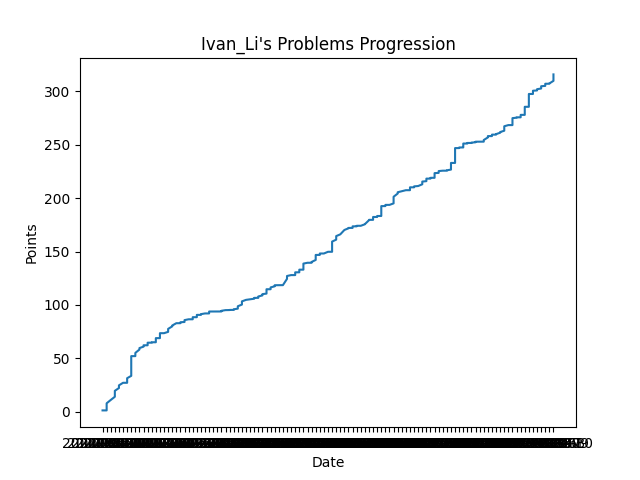
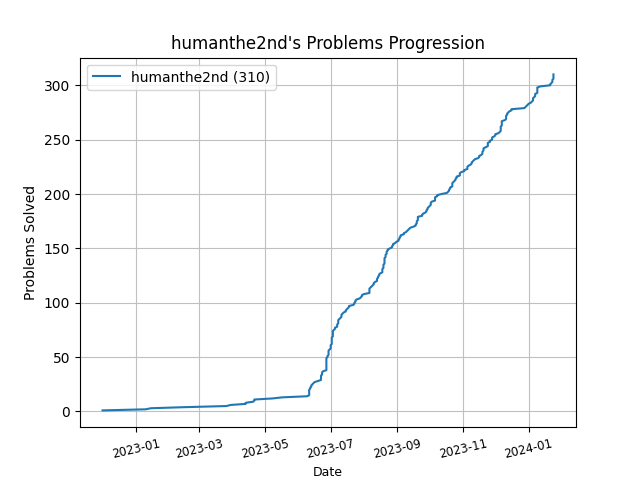
added points plotter

diff --git a/points_plotter.py b/points_plotter.py
@@ -7,6 +7,7 @@ import json
 
 # for plotting
 import matplotlib.pyplot as plt
+import datetime as dt
 
 
 def fetch_submission(user: str, api_key: str, page: int) -> dict:
@@ -51,6 +52,7 @@ def fetch_point_history(user: str, api_key: str):
     get the data for the plotter
     plotted data: balanced points (after aplying formula)
     """
+
     def balance(questions):
         """applies formula to points based on question values"""
         bal = sorted(questions.values(), reverse=True)  # sort by point worth
@@ -82,10 +84,34 @@ def fetch_point_history(user: str, api_key: str):
     return point_gains
 
 
+def fetch_problem_history(user: str, api_key: str):
+    """
+    get a user's history of problems solved
+    """
+    data = fetch_submission(user, api_key, 1)  # get number of submission pages
+    n_pages = data["data"]["total_pages"]
+
+    problems_solved = []  # (times when problems were solved, new problems solved)
+    ac = set()
+    for page in range(1, n_pages + 1):  # process each page (need multiple requests)
+        data = fetch_submission(user, api_key, page)
+        submissions = data["data"]["objects"]
+
+        for sub in submissions:  # process each submission
+            problem = sub["problem"]
+            date = sub["date"].split("T")[0]
+            if sub["result"] == "AC" and problem not in ac:  # solved new problem
+                ac.add(problem)
+                problems_solved.append((date, len(ac)))
+
+    return problems_solved
+
+
 def fetch_mock_data():
     """
     :return: balanced points based on mock data
     """
+
     def balance(questions):
         """applies formula to points based on question values"""
         bal = sorted(questions.values(), reverse=True)  # sort by point worth
@@ -114,29 +140,40 @@ def fetch_mock_data():
     return point_gains
 
 
-def plot_points(history: list, name: str):
+def plot_points(history: list, name: str, y_text: str, title: str):
     """
     saves a picture of the graph
     """
-    x = list(map(lambda x: x[0], history))
+    x = [dt.datetime.strptime(d[0], '%Y-%m-%d').date() for d in history]  # extract time as datetime
     y = list(map(lambda x: x[1], history))
-    plt.xlabel("Date")
-    plt.ylabel("Points")
-    plt.title(f"{name}'s Problems Progression")
-    plt.plot(x, y)
+
+    # labels
+    plt.xlabel("Date", fontsize=9)
+    plt.ylabel(y_text)
+    plt.title(f"{name}'s {title}")
+    plt.grid(color="silver")
+    plt.xticks(rotation=13, fontsize=8.5)  # rotate to prevent overlap in text
+
+    # save plot as image
+    plt.plot(x, y, label=f"{name} ({round(history[-1][1], 2)})")
+    plt.legend(loc="upper left")
     plt.savefig('point_graph.png')
     plt.close()
 
 
 if __name__ == '__main__':
-    TESTING = True
+    TESTING = 0
     user = "Ivan_Li"
 
     load_dotenv("environment/.env")  # load all the variables from the env file
-    token = os.getenv("TOKEN")
+    token = os.getenv("DMOJ_PASSWORD")
     if TESTING:
         history = fetch_mock_data()
     else:
-        history = fetch_point_history(user, token)
+        history = fetch_problem_history(user, token)
 
-    plot_points(history, user)
+    # plot points
+    plot_points(history, user, "Points", "Points Progression")
+
+    # # plot problems solved
+    # plot_points(history, user, "Problems Solved", "Problems Progression")

diff --git a/main.py b/main.py
@@ -11,6 +11,7 @@ from dmoj import connect_account
 from levels import handle_message_sent
 from banner import make_banner
 from leaderboard import make_leaderboard
+from points_plotter import fetch_problem_history, fetch_point_history, plot_points
 
 load_dotenv("environment/.env")  # load all the variables from the env file
 token = os.getenv("TOKEN")
@@ -167,6 +168,58 @@ async def connect_dmoj_account(ctx, username: discord.Option(str, "Your DMOJ use
     except:
         await ctx.respond(
             "An error has occurred while connecting your account. Please make sure that you correctly input your DMOJ username; if you did, then please alert an Executive or Contributor.")
+        raise
+
+
+@bot.slash_command(name="plot_points", description="Plot your DMOJ points progression")
+async def plot_dmoj_points(ctx, user: discord.Option(discord.User, "Plot points of another user",
+                                                     required=False, default=None)):
+    try:
+        await ctx.defer()
+        user_id = user.id if user else ctx.author.id
+        user_data = get_user_data(user_id)
+        if user_data is None:
+            if user:
+                await ctx.respond(
+                    f"{user.name} has not connected to a DMOJ account yet. This can be done using `/connect_account [DMOJ username]`")
+            else:
+                await ctx.respond(
+                    "You have not connected to a DMOJ account yet. You can do so using `/connect_account [DMOJ username]`")
+            return
+
+        api_tk = os.getenv("DMOJ_PASSWORD")
+        history = fetch_point_history(user_data.dmoj_username, api_tk)
+        plot_points(history, user_data.dmoj_username, "Points", "Points Progression")
+        await ctx.respond(file=discord.File('point_graph.png'))
+
+    except:
+        await ctx.respond("An error has occurred while plotting points. Please alert an Executive or Contributor.")
+        raise
+
+
+@bot.slash_command(name="plot_problems", description="Plot your DMOJ problems progression")
+async def plot_dmoj_problems(ctx, user: discord.Option(discord.User, "Plot problems of another user",
+                                                     required=False, default=None)):
+    try:
+        await ctx.defer()
+        user_id = user.id if user else ctx.author.id
+        user_data = get_user_data(user_id)
+        if user_data is None:
+            if user:
+                await ctx.respond(
+                    f"{user.name} has not connected to a DMOJ account yet. This can be done using `/connect_account [DMOJ username]`")
+            else:
+                await ctx.respond(
+                    "You have not connected to a DMOJ account yet. You can do so using `/connect_account [DMOJ username]`")
+            return
+
+        api_tk = os.getenv("DMOJ_PASSWORD")
+        history = fetch_problem_history(user_data.dmoj_username, api_tk)
+        plot_points(history, user_data.dmoj_username, "Problems Solved", "Problems Progression")
+        await ctx.respond(file=discord.File('point_graph.png'))
+
+    except:
+        await ctx.respond("An error has occurred while plotting problems. Please alert an Executive or Contributor.")
         raise
 
 

diff --git a/common.py b/common.py
@@ -21,7 +21,7 @@ def request_image(url: str):
     return image
 
 
-def crop_circle(src, dest, position: tuple[int, int]) -> None:
+def crop_circle(src, dest, position) -> None:
     """
     Crops the source image into a circle and draws it onto the destination image.
     """
@@ -36,7 +36,7 @@ def crop_circle(src, dest, position: tuple[int, int]) -> None:
     dest.paste(output, position, output)
 
 
-def draw_user_avatar(user, dest_image, size: int, position: tuple[int, int]) -> None:
+def draw_user_avatar(user, dest_image, size: int, position) -> None:
     """
     Draws the avatar of the given user onto the destination image at the given position.
     """
@@ -45,7 +45,7 @@ def draw_user_avatar(user, dest_image, size: int, position: tuple[int, int]) -> 
     crop_circle(avatar_image, dest_image, position)
 
 
-def text_shadow(draw, position: tuple[int, int], text: str, font, fore=WHITE, back=BLACK, offset=3,
+def text_shadow(draw, position, text: str, font, fore=WHITE, back=BLACK, offset=3,
                 anchor="la") -> None:
     """
     Draws text with a shadow.

diff --git a/banner.py b/banner.py
@@ -40,7 +40,7 @@ def draw_progress_bar_inside(bar_inside_image, width: int, height: int, percenta
     bar_inside_draw.polygon(points, YELLOW)
 
 
-def draw_progress_bar(draw, dest, bounding_box: tuple[int, int, int, int], percentage: float) -> None:
+def draw_progress_bar(draw, dest, bounding_box, percentage: float) -> None:
     """
     Draws a progress bar onto the destination image.
     """

diff --git a/leaderboard.py b/leaderboard.py
@@ -15,7 +15,7 @@ font_leaderboard = ImageFont.truetype(FONT_PATH, 55)
 font_username = ImageFont.truetype(FONT_PATH, 38)
 
 
-def get_top_users() -> list[UserData]:
+def get_top_users():
     """
     Returns data for the top users in the server.
     At most 10 entries will be returned.
